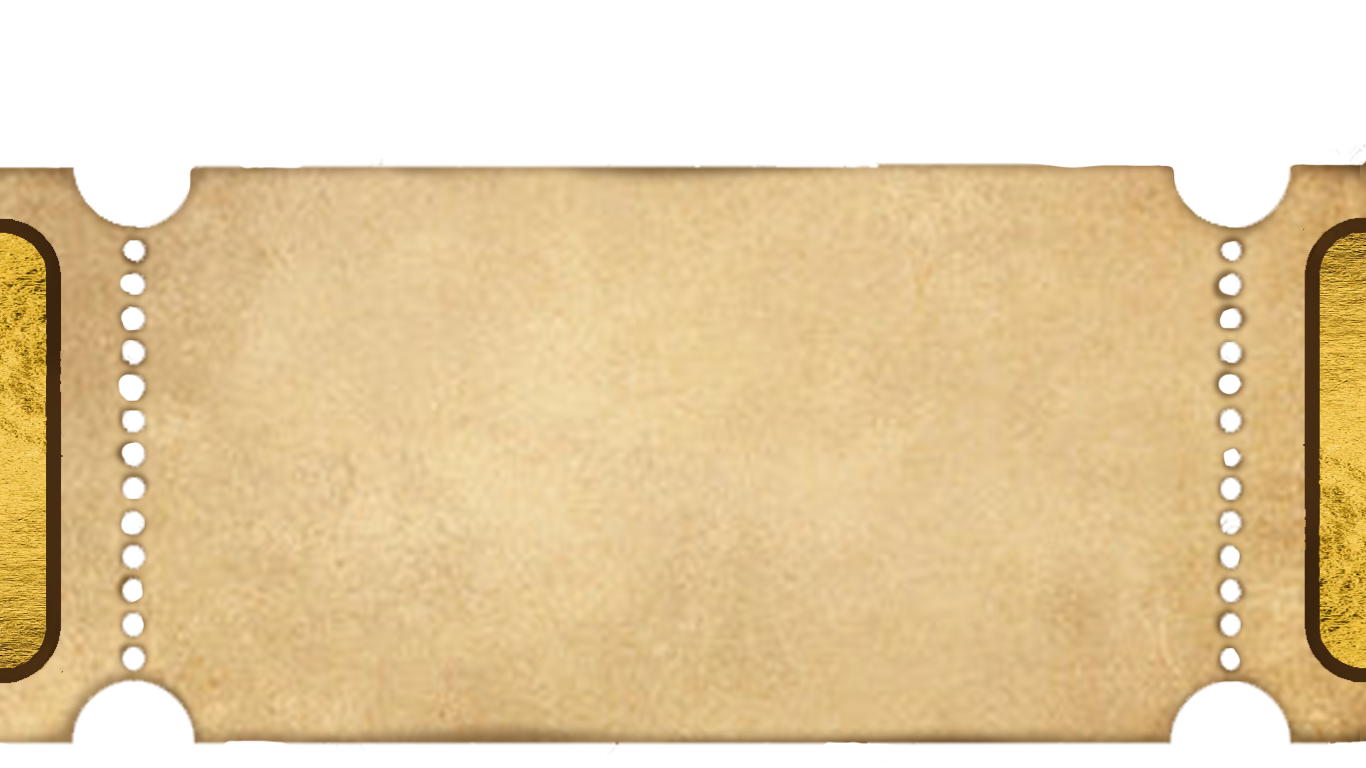
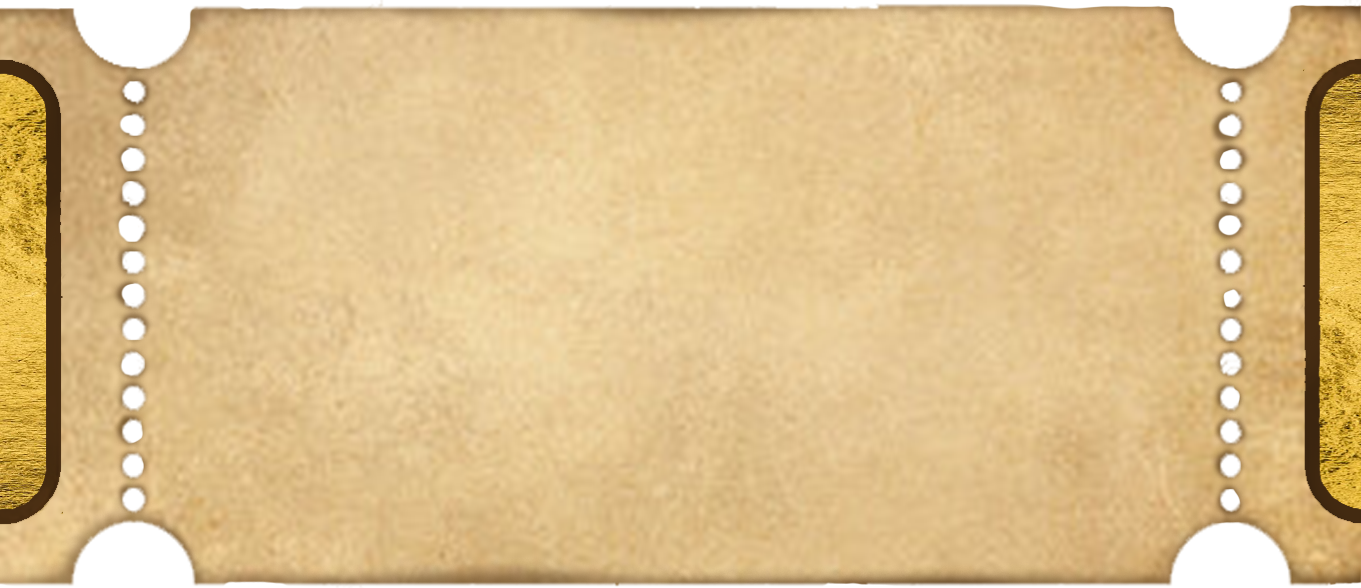
css

diff --git a/CSS/main.css b/CSS/main.css
@@ -14,6 +14,7 @@ body{
     max-width: 100%;
     margin: auto;
     background-image: url("../Images/depositphotos_287921756-stock-photo-white-brick-wall-background.jpg");
+    z-index: 0;
 }
 
 .main{
@@ -42,5 +43,5 @@ body{
 }
 
 .ticketDisplay{
-    text-align: center;
+    z-index: -1;
 }

diff --git a/index.html b/index.html
@@ -21,7 +21,7 @@
 
     <main>
         <div class="ticketDisplay">
-            <img src="./images/ticket.png" alt="ticket" style= "width:1510px ;height:600px;">
+            <img src="./images/ticket.png" alt="ticket" style= "width:1510px ;height:540px;">
         </div>
     </main>
     

diff --git a/CSS/menu.css b/CSS/menu.css
@@ -28,6 +28,7 @@ nav li {
     width: 15rem; 
     font-family: Pica;
     font-size: 25px;
+    list-style: symbols("*");
 }
 
 nav li > a {
@@ -49,5 +50,6 @@ li:hover > ul{
     padding-bottom: 20px;
     border-radius: 10px;
     line-height: 25px;
+    
 }
 
